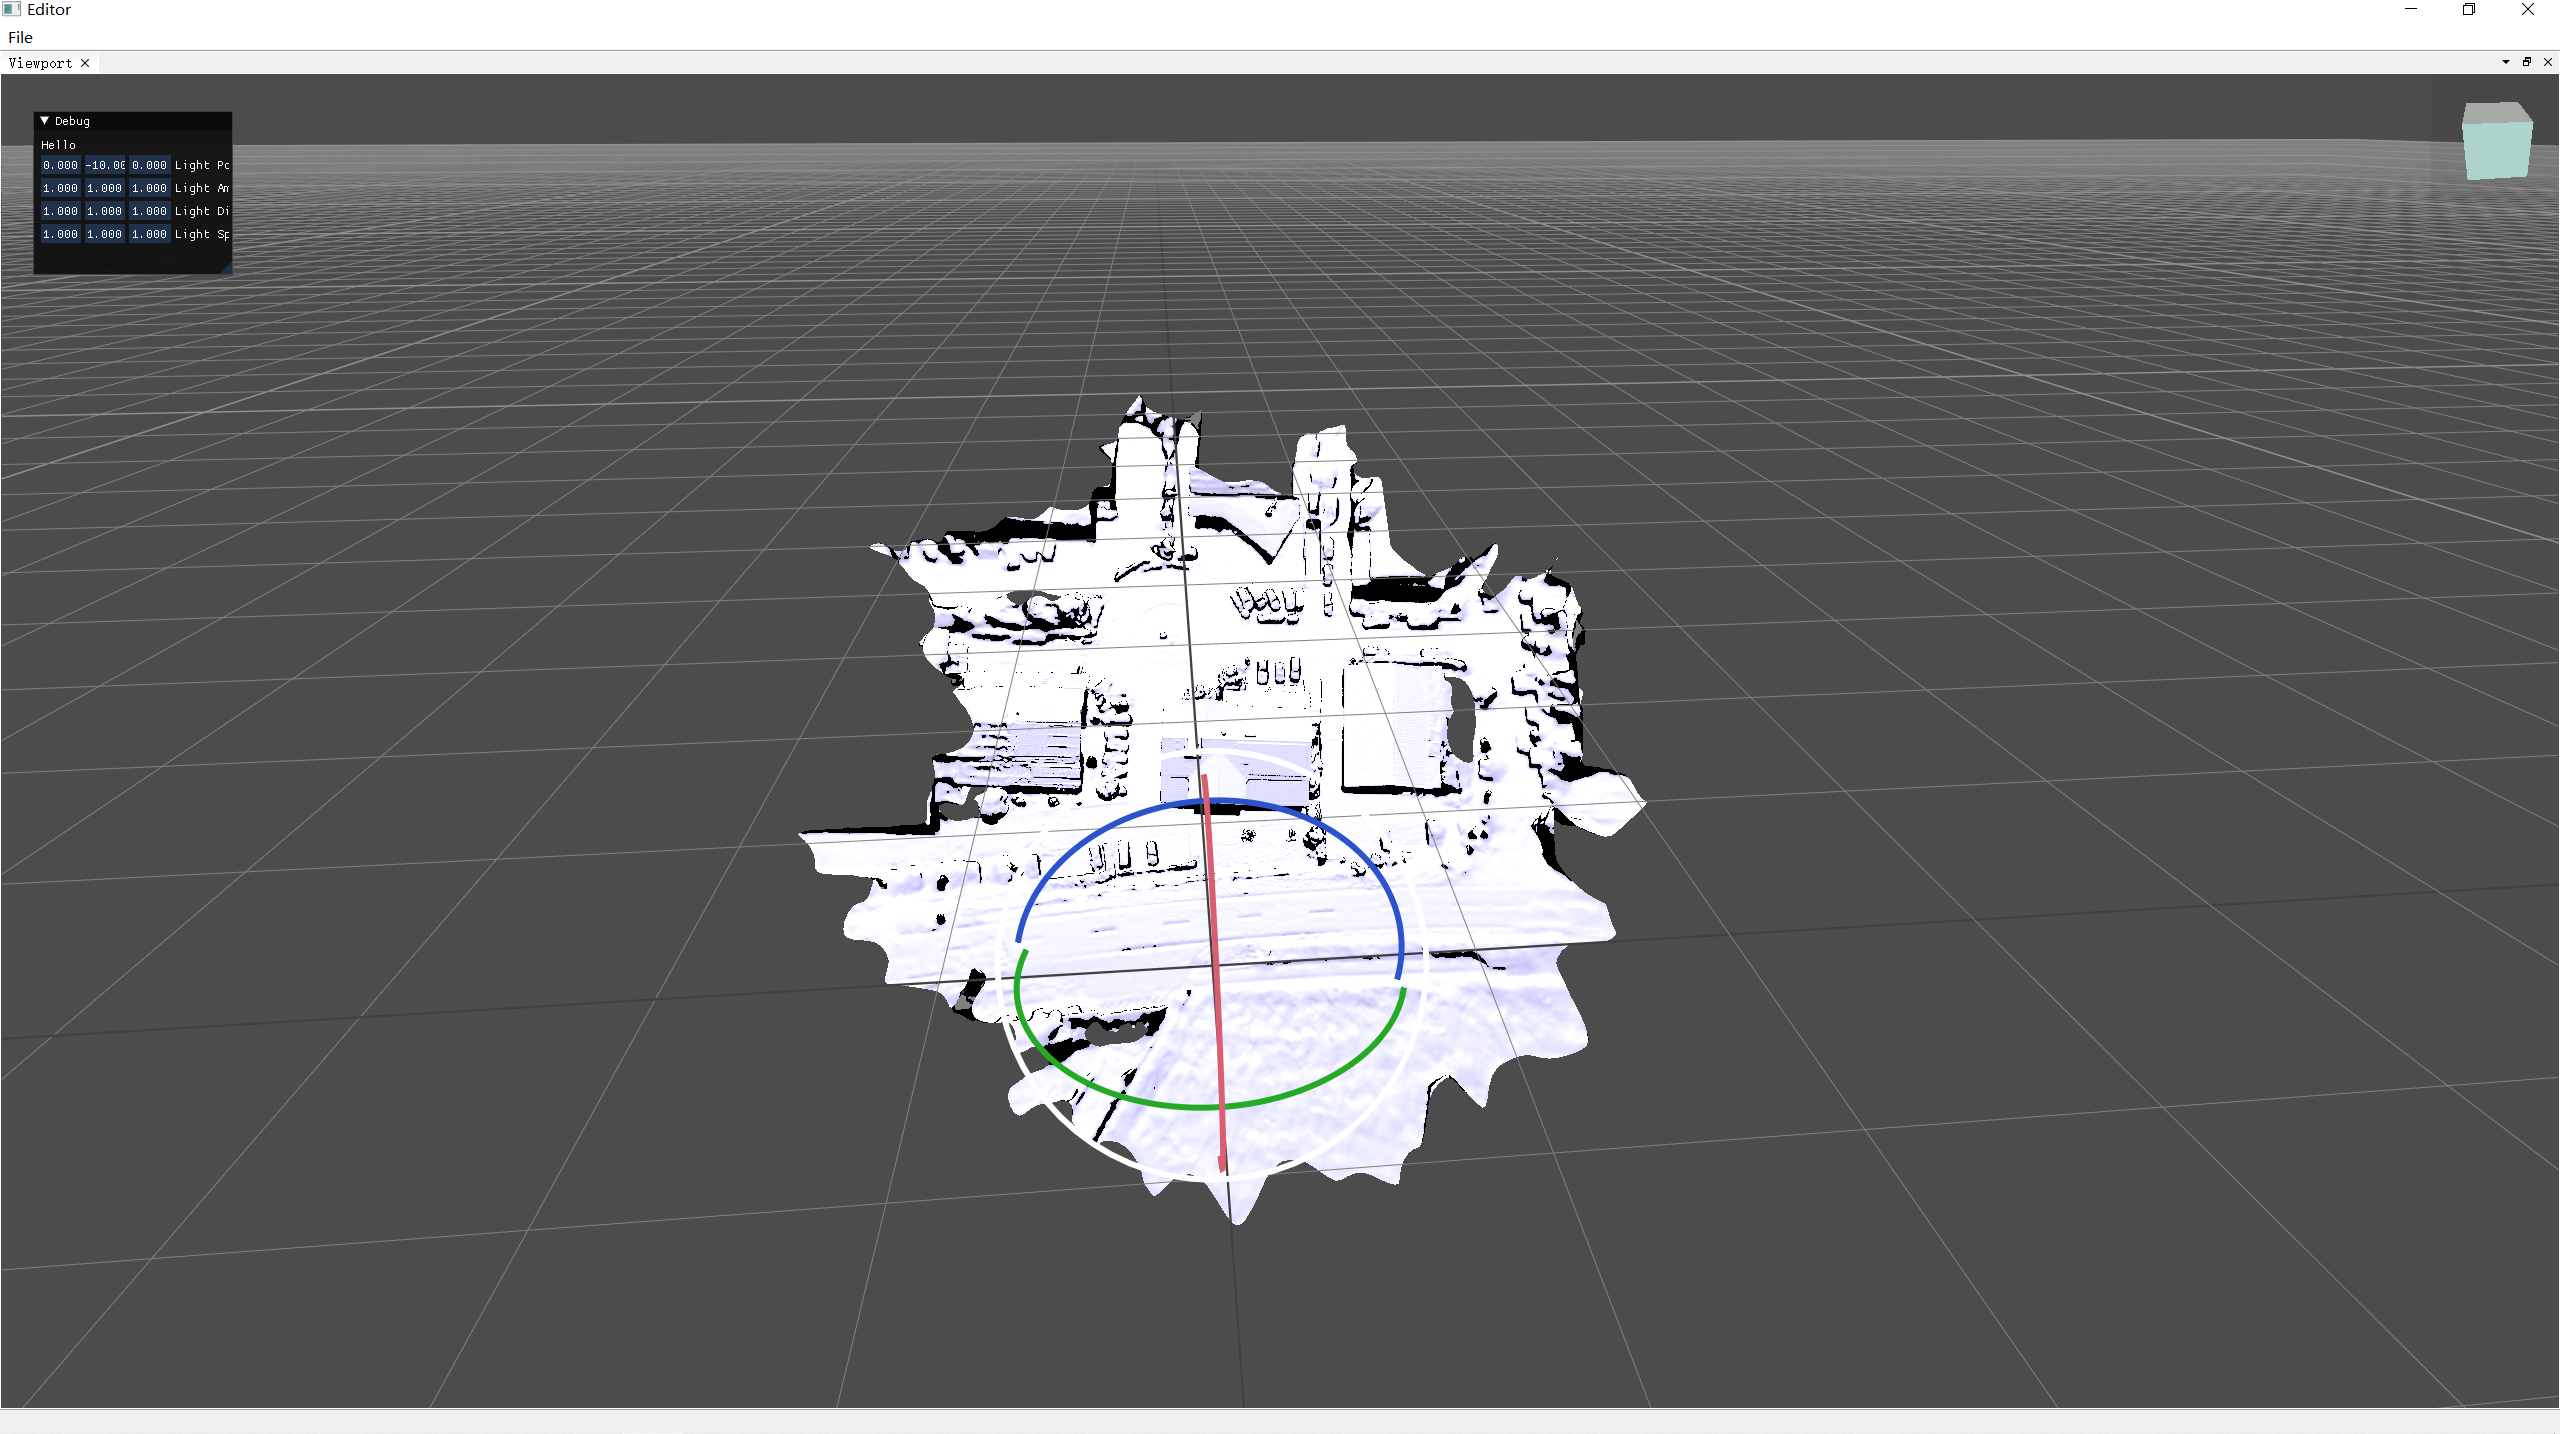
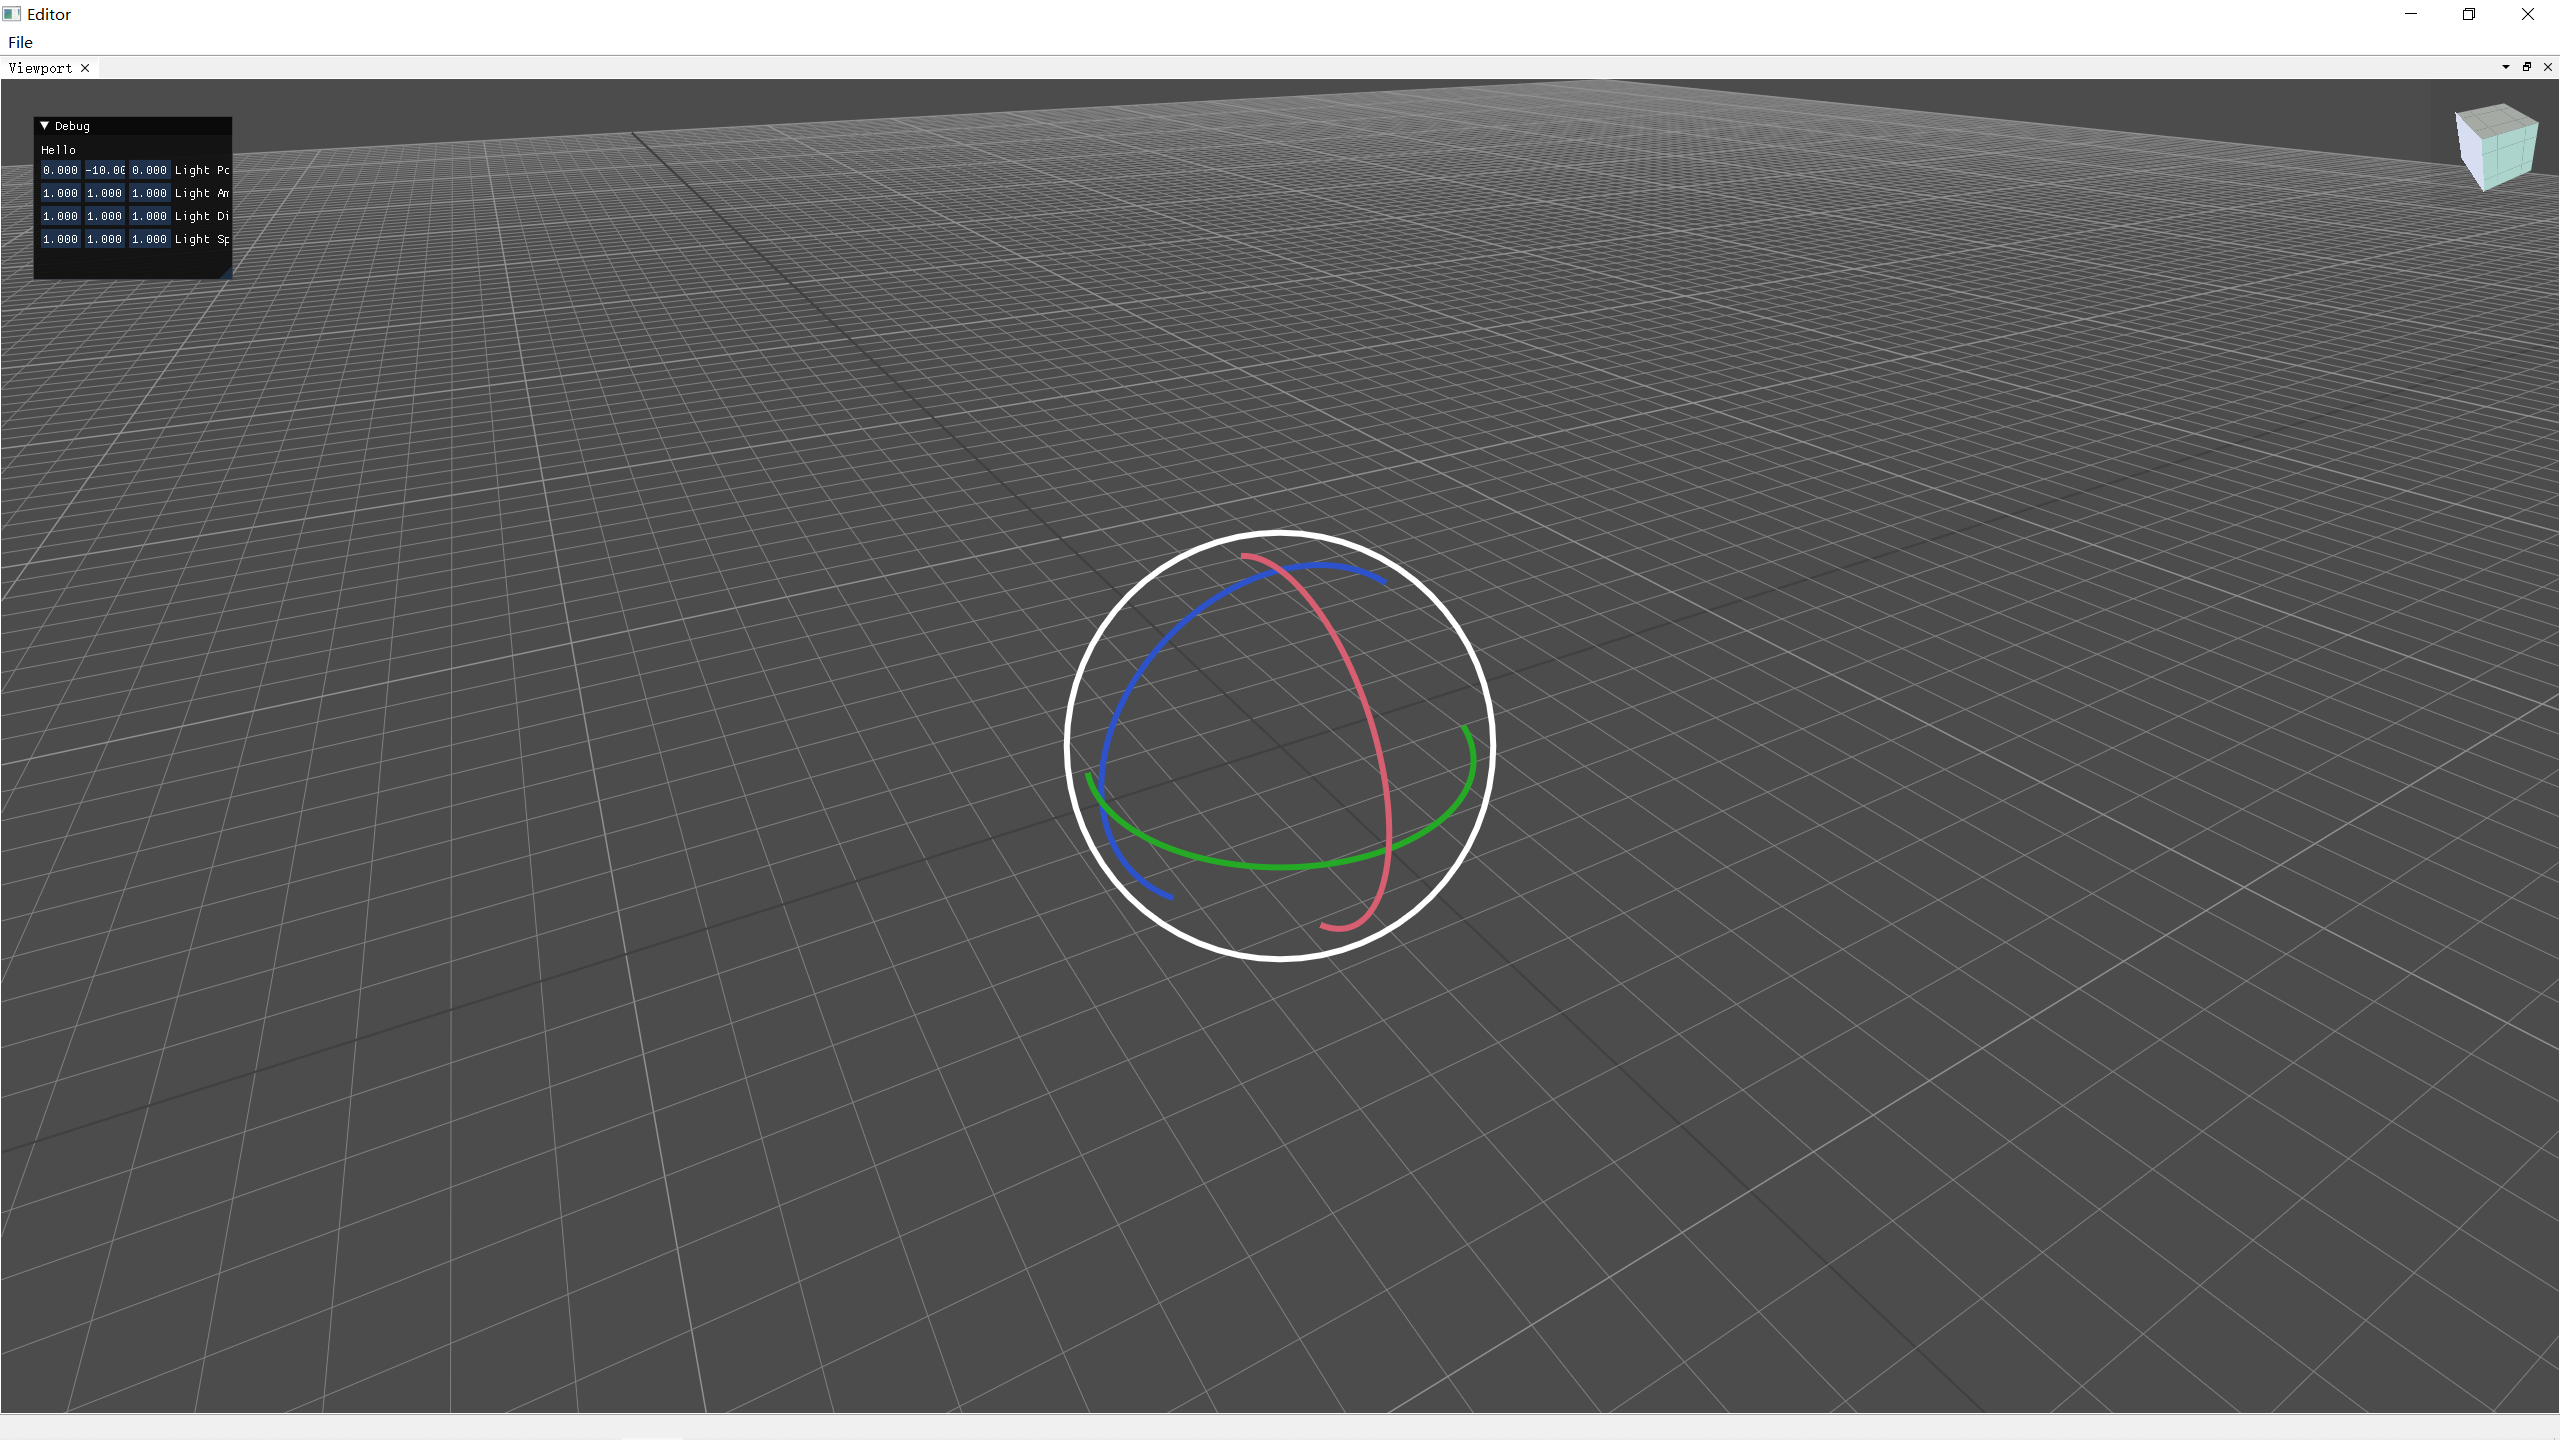
📃 docs: 修改截图

diff --git a/Stone/App/source/Mainwindow.cpp b/Stone/App/source/Mainwindow.cpp
@@ -36,7 +36,7 @@ namespace Stone
     void MainWindow::importMesh()
     {
         auto testMesh = PublicSingletonInstance(Scene).CreateObject("testMesh");
-        testMesh.AddComponent<MeshComponent<VCGMesh>>("D:/datas/ply/scene_mesh_refine.ply");
+        testMesh.AddComponent<MeshComponent<VCGMesh>>("D:/datas/ply/shan.ply");
     }
 }
 
